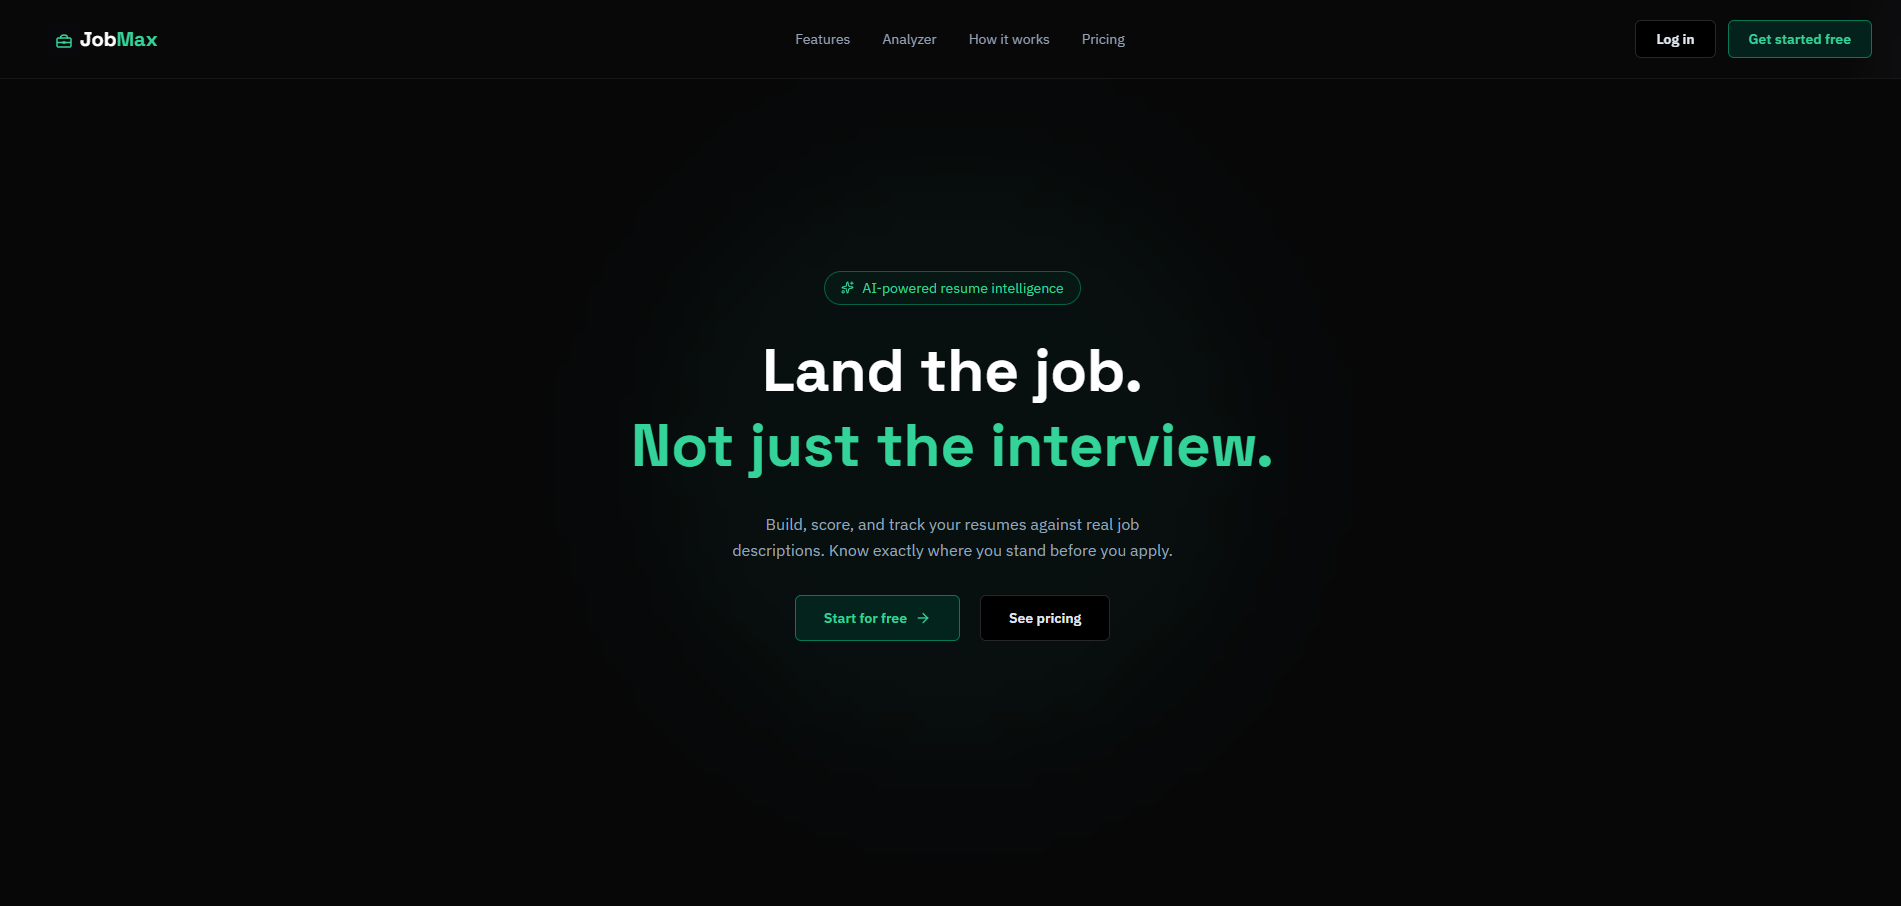
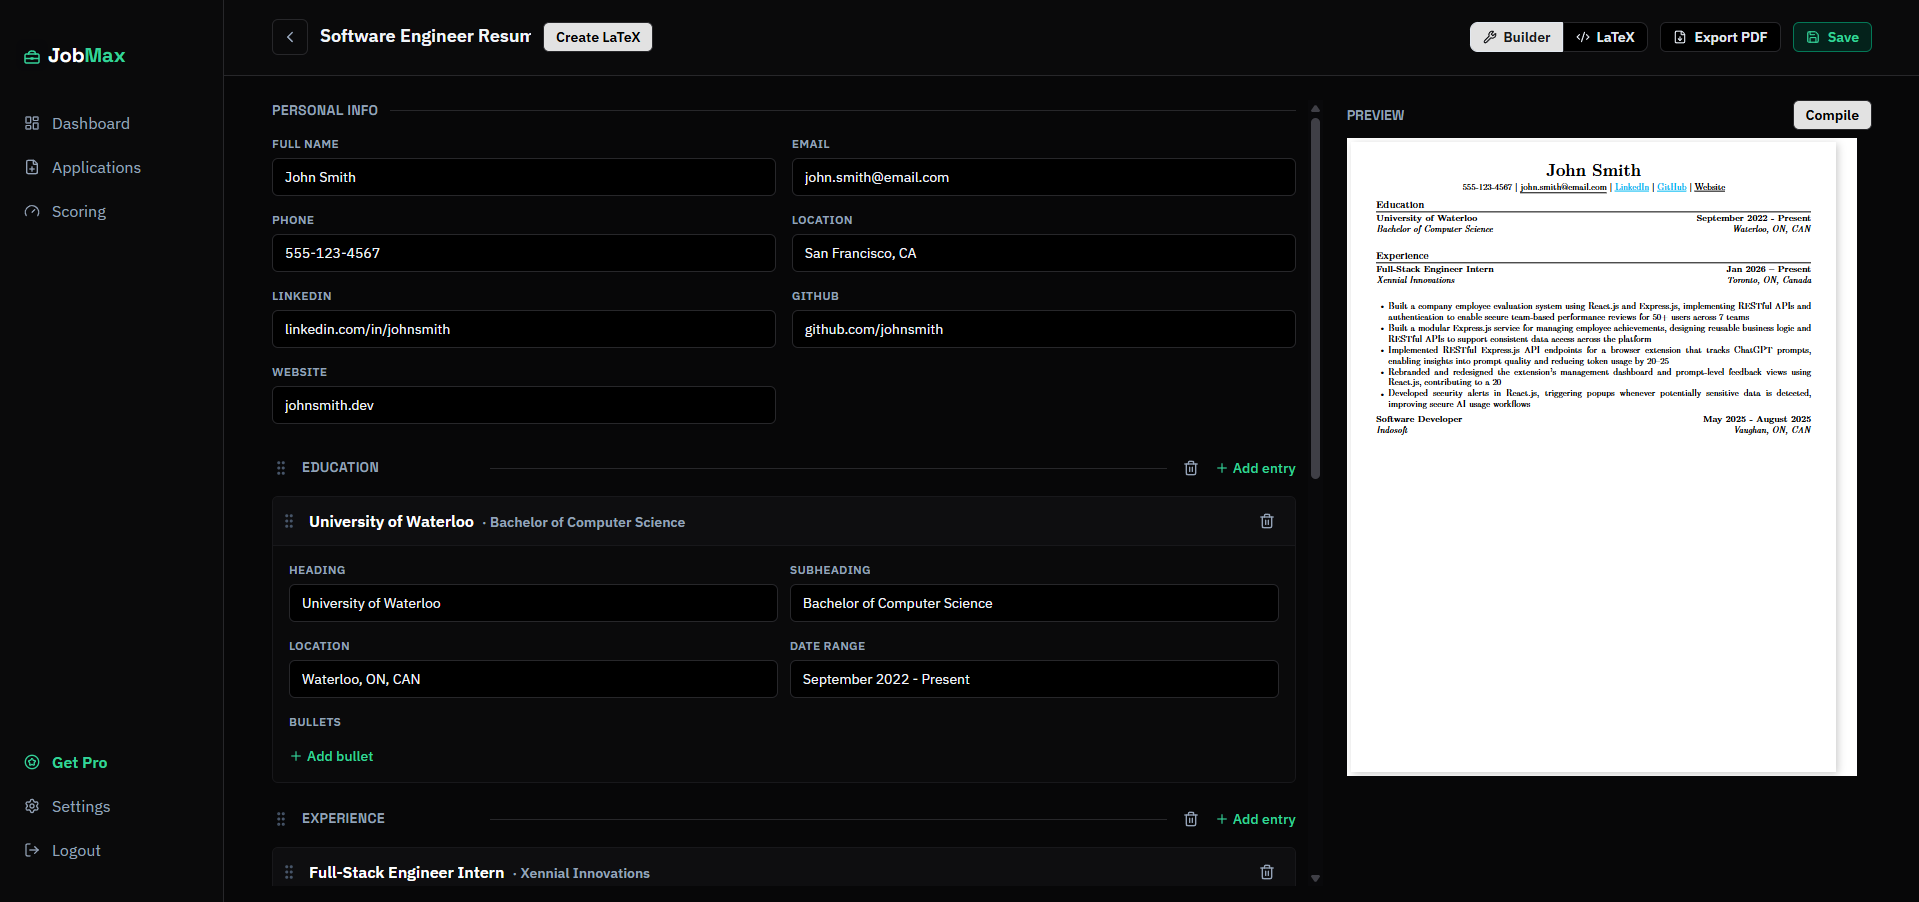
Updated about me

diff --git a/src/components/About.jsx b/src/components/About.jsx
@@ -67,13 +67,13 @@ const About = forwardRef(({windowSize}, ref) => {
                         ">
                             <p className="text-gray-800 dark:text-neutral-300/80 transition duration-200">
                                 <span className="font-normal dark:text-white transition duration-200">Hi, I'm Cristian.
-                                </span> I am a Computer Science student at the University of Waterloo and love building cool things through code. I am interested in fullstack software development.
+                                </span> I'm a Computer Science student at the University of Waterloo, interested in fullstack software engineering.
                             </p>
                             <p className="text-gray-800 dark:text-neutral-300/80 transition duration-200">
-                                In my free time, I like weightlifting, making electronic music, and biking. I am always open to opportunities for projects, collaborations, or internships that allow me to contribute to meaningful work.
+                                In my free time, I like weightlifting, watching The Sopranos, and biking. I am always open to opportunities for projects, collaborations, or internships that allow me to contribute to meaningful work.
                             </p>
                             <p className="text-gray-800 dark:text-neutral-300/80 transition duration-200">
-                                Feel free to check out some of my work down below and on Github. If you'd like to connect, reach out via Linkedin or Email - I'd love to chat.
+                                Feel free to reach out by email or message, I'm always happy to connect.
                             </p>
                         </div>
                     </div>

diff --git a/src/components/IntroPage.jsx b/src/components/IntroPage.jsx
@@ -56,11 +56,11 @@ const IntroPage = forwardRef(({windowSize}, ref) => {
                 "
             >
 
-                <div className="flex flex-col
+                <div className="flex flex-col items-center sm:items-start
                         2xl:gap-8 lg:gap-6 md:gap-5 gap-4
                 ">
 
-                    <div className="flex flex-col
+                    <div className="flex flex-col items-center sm:items-start
                         2xl:gap-3 lg:gap-2 gap-1
                     ">
                         <div className="inline-flex items-center border border-gray-300 dark:border-white/10 bg-gray-100 dark:bg-white/5 rounded-sm w-fit transition duration-200
